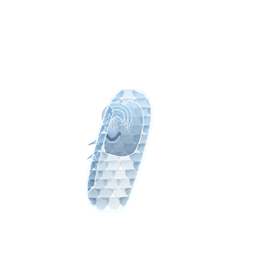
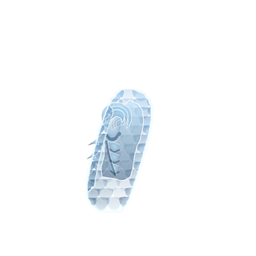
Call of Valor: the abdominal half of the cuirass, and the checkpoint moved onto it
The user's call: "save it again, overwrite the last one, this is the new
checkpoint." Tools/ValorApproved_2026-07-31/ now holds the version WITH the
abdomen. Overwriting is safe because the previous checkpoint remains
recoverable in full from 008e674 - the history is the archive, the folder is
only the convenient copy.

THE ABDOMINAL HALF. The cuirass now runs throat to lower abdomen, with a real
waist in the outline (narrowest 0.612 of the body's half-width, flaring back to
0.646 over the hips) instead of a straight taper.

The emphasis is deliberately inverted from the chest, and that is the design.
Six abdominal segments occupy roughly one pectoral's space, so at the 48px the
game is played at they WILL blur - arithmetic, not pessimism. The segments are
therefore drawn soft and the read is carried by the three forms that survive a
downscale: the linea alba, the iliac line, and the plate's lower rim. Zoom in
and there are abs; zoom out and there is a waist, a centre line and a V.

The sternum groove is EXTENDED into the linea alba rather than a second line
being started below it. Two grooves that stop just short of each other read as
a mistake in the art, not as anatomy.

Each row is narrower than the one above and each row's outer end sweeps up -
both real, and without them a stack of equal rectangles reads as a radiator.
Per segment: a PathGradientBrush dome, a dark lower edge and a lit upper edge,
[…]

Changed region(s): [[0.375, 0.5312, 0.5312, 0.7188], [0.5312, 0.5625, 0.5625, 0.5938]]

diff --git a/Mods/Dovahkiin/CHANGELOG.md b/Mods/Dovahkiin/CHANGELOG.md
@@ -1,5 +1,48 @@
 # CHANGELOG
 
+## Call of Valor: the ABDOMINAL half of the cuirass (2026-07-31)
+
+The second half of the chest plate. The cuirass now runs from the throat to the bottom of the
+abdomen — `$PLATE_PROFILE` extended from 0.520 to 0.712 of the body's height, with a real waist
+in it (narrowest 0.612 at 0.545, flaring back to 0.646 over the hips) rather than a straight
+taper.
+
+**The emphasis is deliberately inverted from the chest, and that is the whole design.** Six
+abdominal segments occupy roughly the space of one pectoral, so at the 48px the game is played at
+they *will* blur — that is arithmetic, not pessimism. So the segments are drawn soft, and the read
+is carried by the three forms that survive a downscale:
+
+- **the linea alba** — and the sternum groove is *extended* into it rather than a second line
+  being started, because two grooves that stop just short of each other read as a mistake in the
+  art. One continuous channel, throat to belly.
+- **the iliac line** — the long diagonal from the flank to the groin. The single most
+  recognisable curve on a muscled cuirass and the biggest form in the lower half. Dark, with a lit
+  lip on its inboard side.
+- **the plate's own lower rim**, which the outline already carried.
+
+Zoom in and there are abs; zoom out and there is a waist, a centre line and a V.
+
+Each row is **narrower than the one above** (0.720 → 0.665 → 0.560 of the plate's half-width) and
+each row's outer end **sweeps up**. Both are real anatomy — the rectus tapers as it descends and
+the segments follow the ribs outward — and without them a stack of equal rectangles reads as a
+radiator. Per segment: a `PathGradientBrush` dome, a dark lower edge and a lit upper edge. Doing
+the crease-and-lip pairing *per segment* means the divisions between rows fall out of the shapes
+themselves, so no grooves have to be drawn between them.
+
+**North gets one long erector-spinae mass per side instead of three rows.** A back has no rectus
+and no transverse divisions; stamping the front's segments onto it would be the same class of
+error as reusing south's widths on east.
+
+Contrast was raised once after the first render (dome surround 0.46 → 0.52, lower crease 0.72 →
+0.82, upper lit 0.48 → 0.56) — soft was landing as absent.
+
+**Note on the snapshot:** `Tools/ValorApproved_2026-07-31/` was taken *before* this entry, at the
+user's request, and holds the pauldrons-and-chest version they called "the best of every version
+we had until now". It is deliberately not updated here — it is the restore point this change was
+made against. If the abdominal version supersedes it, re-snapshot then.
+
+---
+
 ## Call of Valor: a MUSCLED CUIRASS, meeting the pauldrons (2026-07-31)
 
 The next detail in the user's one-at-a-time pass: a chest plate running up to the pauldrons,

diff --git a/Mods/Dovahkiin/Tools/ValorApproved_2026-07-31/README.md b/Mods/Dovahkiin/Tools/ValorApproved_2026-07-31/README.md
@@ -3,6 +3,13 @@
 **The user's words: "this one right here is the best of every version we had until now."**
 Frozen here so that later changes cannot lose it.
 
+> **CHECKPOINT MOVED.** This folder was first taken at the pauldrons-and-chest stage and has
+> since been **overwritten at the user's instruction** to become the checkpoint *including the
+> abdominal half*. Overwriting is safe rather than destructive: **the earlier checkpoint is
+> still recoverable in full from git at commit `008e674`**, contents and manifest alike. That
+> is the reason a snapshot may be overwritten at all — the history is the real archive, this
+> folder is the convenient one.
+
 This folder is a **snapshot, not a source**. Nothing in the mod loads it — `Tools/` is not
 scanned for textures. It exists so that any future version of the champion can be compared
 against the one that was actually approved, byte for byte, instead of from memory.
@@ -25,6 +32,9 @@ against the one that was actually approved, byte for byte, instead of from memor
   shoulder, sweeping from outboard-below, over the joint, and down inboard across the chest.
 - A **muscled cuirass** — pectoral domes drawn with `PathGradientBrush`, under-pec creases with
   lit lips, a sternum groove. North gets shoulder blades and a spine instead.
+- The **abdominal half**: three rows of segments, each narrower than the one above and sweeping
+  up at its outer end; the sternum groove extended into one continuous linea alba; an iliac line
+  per side. North gets one erector-spinae mass per side rather than rows.
 - **No crest shards.** Suppressed deliberately: they run down the same chest the cuirass occupies
   and win outright, so the pectorals stopped existing. There is no alpha at which both read.
 
